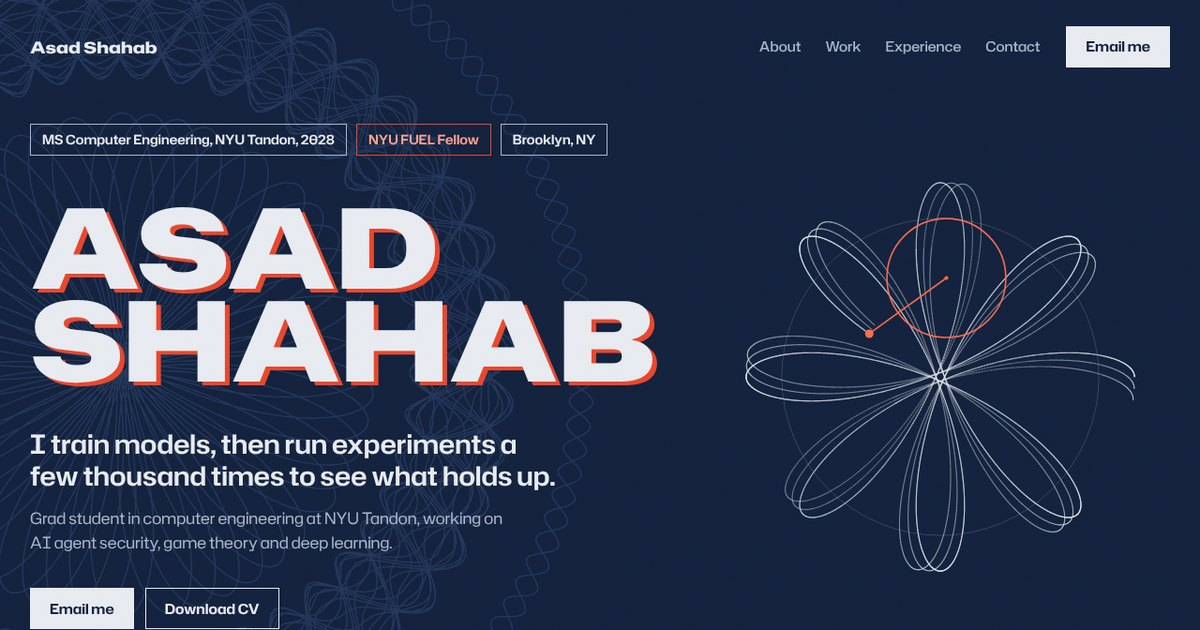
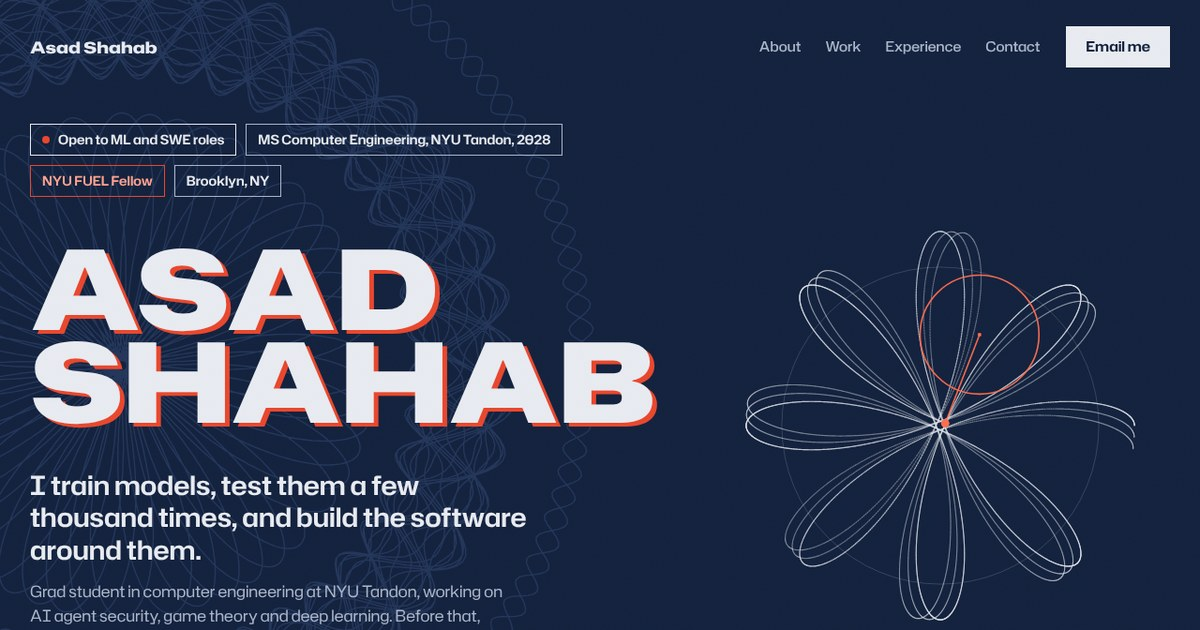
Adjusted content

Changed region(s): [[0.0, 0.181, 0.555, 1.0], [0.6167, 0.2714, 0.9558, 0.9952], [0.925, 0.6635, 0.9558, 0.6937]]

diff --git a/index.html b/index.html
@@ -3,12 +3,12 @@
 <head>
 <meta charset="utf-8">
 <meta name="viewport" content="width=device-width, initial-scale=1">
-<title>Asad Shahab | AI agents, game theory and deep learning</title>
-<meta name="description" content="Asad Shahab is a computer engineering grad student at NYU Tandon working on AI agent security, game theory and deep learning.">
+<title>Asad Shahab | Machine learning and software engineering</title>
+<meta name="description" content="Asad Shahab is a computer engineering grad student at NYU Tandon. He works on machine learning, mostly AI agent security, game theory and deep learning, and builds the software around it. Open to ML and software engineering roles.">
 <meta name="theme-color" content="#13213C">
 <meta property="og:type" content="website">
 <meta property="og:title" content="Asad Shahab">
-<meta property="og:description" content="Grad student at NYU Tandon working on AI agent security, game theory and deep learning.">
+<meta property="og:description" content="Machine learning and software engineering. Grad student at NYU Tandon, open to ML and SWE roles.">
 <meta property="og:url" content="https://asad-exo.github.io/">
 <meta property="og:image" content="https://asad-exo.github.io/assets/og.jpg">
 <meta name="twitter:card" content="summary_large_image">
@@ -80,13 +80,15 @@ a{color:inherit}
 .status{display:flex;flex-wrap:wrap;gap:10px;padding:0;list-style:none}
 .status li{display:inline-flex;align-items:center;min-height:34px;padding:0 12px;border:1.5px solid var(--fgd2);font-size:14px;font-weight:600}
 .status .fellow{border-color:var(--acc);color:var(--accd)}
+.status .open{gap:9px;border-color:var(--fgd);color:var(--fgd)}
+.status .open::before{content:"";width:8px;height:8px;border-radius:50%;background:var(--acc)}
 .name{position:relative;margin:48px 0 0;font-stretch:125%;font-weight:880;font-size:clamp(54px,9.2vw,136px);line-height:.84;letter-spacing:-.005em;text-transform:uppercase}
 .name span span{display:block}
 .nm-red{position:absolute;left:0;top:0;color:var(--acc);transform:translate(5px,4px)}
 .nm-ink{position:relative;display:block;color:var(--fgd)}
 @keyframes register{0%{opacity:0;transform:translate(26px,16px)}30%{opacity:1}100%{opacity:1;transform:translate(5px,4px)}}
 @keyframes inkin{0%{opacity:0;filter:blur(10px)}100%{opacity:1;filter:blur(0)}}
-.vt .lead{margin-top:44px;max-width:20em;font-size:clamp(22px,2.2vw,31px);line-height:1.22;font-weight:600}
+.vt .lead{margin-top:44px;max-width:20em;text-wrap:pretty;font-size:clamp(22px,2.2vw,31px);line-height:1.22;font-weight:600}
 .vt .sub{margin-top:14px;max-width:30em;color:var(--fgd2)}
 .cta{display:flex;flex-wrap:wrap;gap:12px;margin-top:36px}
 .js .hdraw{stroke-dasharray:1;stroke-dashoffset:1}
@@ -104,9 +106,10 @@ a{color:inherit}
 
 /* engraving machine */
 .hero-r{position:relative;z-index:1;display:flex;justify-content:center}
-.eng{position:relative;width:min(100%,520px);aspect-ratio:1}
+.eng{position:relative;display:block;width:min(100%,520px);aspect-ratio:1;margin:0;padding:0;border:0;background:none;color:inherit;font:inherit;cursor:pointer;touch-action:manipulation;-webkit-tap-highlight-color:transparent;transition:transform .25s cubic-bezier(.2,.8,.2,1)}
+.eng:active{transform:scale(.985)}
+.vt .eng:focus-visible{border-radius:50%;outline-offset:0}
 .eng canvas{position:absolute;left:0;top:0;width:100%;height:100%;display:block}
-#eng-pen{cursor:crosshair;touch-action:pan-y}
 
 /* sections */
 .sec{position:relative;z-index:1;padding-top:120px;padding-bottom:120px}
@@ -250,6 +253,7 @@ a{color:inherit}
 .c-ros{position:absolute;width:900px;height:900px;right:-280px;top:-80px;pointer-events:none}
 .c-in{position:relative}
 .c-h{font-stretch:125%;font-weight:880;font-size:clamp(56px,9vw,132px);line-height:.88;letter-spacing:-.015em}
+.vt .c-note{margin-top:28px;max-width:34em;font-size:18px;color:var(--fg2)}
 .mail{display:inline-block;margin-top:40px;font-stretch:125%;font-weight:780;font-size:clamp(24px,4.2vw,60px);line-height:1.05;text-decoration:none;overflow-wrap:anywhere;border-bottom:3px solid var(--accg);padding-bottom:6px}
 .mail:hover{color:var(--accl)}
 .c-links{display:flex;flex-wrap:wrap;gap:12px;margin-top:40px}
@@ -322,6 +326,7 @@ a{color:inherit}
       </svg>
       <div class="hero-l">
         <ul class="status">
+          <li class="open">Open to ML and SWE roles</li>
           <li>MS Computer Engineering, NYU Tandon, 2028</li>
           <li class="fellow">NYU FUEL Fellow</li>
           <li>Brooklyn, NY</li>
@@ -330,18 +335,18 @@ a{color:inherit}
           <span class="nm-red" aria-hidden="true"><span>Asad</span><span>Shahab</span></span>
           <span class="nm-ink" aria-hidden="true"><span>Asad</span><span>Shahab</span></span>
         </h1>
-        <p class="lead">I train models, then run experiments a few thousand times to see what holds up.</p>
-        <p class="sub">Grad student in computer engineering at NYU Tandon, working on AI agent security, game theory and deep learning.</p>
+        <p class="lead">I train models, test them a few thousand times, and build the software around them.</p>
+        <p class="sub">Grad student in computer engineering at NYU Tandon, working on AI agent security, game theory and deep learning. Before that, two years shipping automation software for enterprise clients.</p>
         <div class="cta">
           <a class="btn" href="mailto:asad.shahab275@gmail.com">Email me</a>
           <a class="btn btn-o" href="assets/Asad-Shahab-CV.pdf" download>Download CV</a>
         </div>
       </div>
       <div class="hero-r">
-        <div class="eng" aria-hidden="true">
-          <canvas id="eng-cv"></canvas>
-          <canvas id="eng-pen"></canvas>
-        </div>
+        <button class="eng" id="eng-btn" type="button" aria-label="Draw a new spirograph pattern" title="Draw a new pattern">
+          <canvas id="eng-cv" aria-hidden="true"></canvas>
+          <canvas id="eng-pen" aria-hidden="true"></canvas>
+        </button>
       </div>
     </section>
   </div>
@@ -351,13 +356,13 @@ a{color:inherit}
     <div class="wrap sec">
       <div class="sec-head">
         <h2 class="h2" id="about-h">About</h2>
-        <p class="bio">I'm a grad student at NYU Tandon. I did my undergrad in computer science at GIKI, then spent two years at Systems Limited building automations for clients like Hilton and British American Tobacco. Most of my work falls where machine learning meets game theory. Right now that means AI agents: how they get hijacked through prompt injection, and how to catch them when it happens.</p>
+        <p class="bio">I'm a grad student at NYU Tandon. I did my undergrad in computer science at GIKI, then spent two years as a consultant at Systems Limited, shipping automations for clients like Hilton and British American Tobacco. These days most of my work is machine learning, often where it meets game theory. Right now that means AI agents: how they get hijacked through prompt injection, and how to catch them when it happens. I'm just as happy building the backend, app or pipeline around a model as training it.</p>
       </div>
       <div class="specs">
         <div class="spec"><svg class="glyph" viewBox="0 0 300 300" aria-hidden="true"><path data-geo="g1"></path></svg><div><h3>AI agent security</h3><p>Prompt injection, decoys and monitoring for LLM agents.</p></div></div>
         <div class="spec"><svg class="glyph" viewBox="0 0 300 300" aria-hidden="true"><path data-geo="g2"></path></svg><div><h3>Game theory</h3><p>Security games, equilibria, and simulations that pit strategies against each other.</p></div></div>
         <div class="spec"><svg class="glyph" viewBox="0 0 300 300" aria-hidden="true"><path data-geo="g3"></path></svg><div><h3>Deep learning</h3><p>Diffusion models, fine-tuned language models, and audio and image generation.</p></div></div>
-        <div class="spec"><svg class="glyph" viewBox="0 0 300 300" aria-hidden="true"><path data-geo="g4"></path></svg><div><h3>Data</h3><p>Digging into messy real-world data to see what it says.</p></div></div>
+        <div class="spec"><svg class="glyph" viewBox="0 0 300 300" aria-hidden="true"><path data-geo="g4"></path></svg><div><h3>Software engineering</h3><p>Backends, apps and automation, built with Python, FastAPI, Flutter, Docker and AWS.</p></div></div>
       </div>
     </div>
   </section>
@@ -561,6 +566,7 @@ a{color:inherit}
     <div class="wrap sec">
       <div class="c-in">
         <h2 class="c-h" id="contact-h">Write to me.</h2>
+        <p class="c-note">I'm looking for machine learning and software engineering roles. If you're hiring, or just want to talk about agents, I'd like to hear from you.</p>
         <a class="mail" href="mailto:asad.shahab275@gmail.com">asad.shahab275@gmail.com</a>
         <div class="c-links">
           <a class="btn" href="https://www.linkedin.com/in/asadshahab" target="_blank" rel="noopener">LinkedIn</a>
@@ -643,7 +649,7 @@ a{color:inherit}
   Array.prototype.forEach.call(document.querySelectorAll('[data-geo]'), function (el) {
     el.setAttribute('d', geo[el.getAttribute('data-geo')]);
   });
-  var unit = 'ASAD SHAHAB   AGENT SECURITY   GAME THEORY   DEEP LEARNING   NYU TANDON   ';
+  var unit = 'ASAD SHAHAB   MACHINE LEARNING   AGENT SECURITY   GAME THEORY   SOFTWARE ENGINEERING   NYU TANDON   ';
   var micro = new Array(8).join(unit);
   Array.prototype.forEach.call(document.querySelectorAll('[data-text="micro"]'), function (el) { el.textContent = micro; });
 
@@ -684,17 +690,21 @@ a{color:inherit}
   /* ---------- engraving machine ---------- */
   var eng = document.getElementById('eng-cv');
   var pen = document.getElementById('eng-pen');
-  var presets = [
-    { r: 0.375, d: 0.6, turns: 3, secs: 10 },
-    { r: 0.3, d: 0.62, turns: 3, secs: 10 },
-    { r: 4 / 11, d: 0.5, turns: 4, secs: 12 },
-    { r: 2 / 7, d: 0.5, turns: 2, secs: 8 },
-    { r: 5 / 12, d: 0.66, turns: 5, secs: 13 },
-    { r: 5 / 11, d: 0.72, turns: 5, secs: 13 }
-  ];
+  var first = { r: 0.375, d: 0.6, turns: 3, secs: 10, rot: 0 };
   var S = 0, dpr = 1, lineCol = 'rgba(231,234,240,.55)', penCol = '#FF6A4D';
-  var pi = 0, tt = 0, phase = 'draw', phaseT = 0, dm = 1, rm = 0, nudge = null, raf = 0, running = false, visible = true;
+  var cur = first, tt = 0, phase = 'draw', phaseT = 0, fadeFor = 1.3, raf = 0, running = false, visible = true;
 
+  function gcd(a, b) { return b ? gcd(b, a % b) : a; }
+  /* random gears: a fixed ring of radius 1 and a rolling gear of a/b. The pattern closes after a turns. */
+  function randomPattern(prev) {
+    for (var i = 0; i < 80; i++) {
+      var b = 5 + Math.floor(Math.random() * 9), a = 2 + Math.floor(Math.random() * 5), r = a / b;
+      if (gcd(a, b) !== 1 || r < 0.18 || r > 0.47) continue;
+      if (prev && Math.abs(r - prev.r) < 1e-6) continue;
+      return { r: r, d: 0.45 + Math.random() * 0.35, turns: a, secs: Math.min(14, 6 + 1.6 * a), rot: Math.random() * Math.PI * 2 };
+    }
+    return first;
+  }
   function sizeCanvases() {
     var rect = eng.getBoundingClientRect();
     var ratio = Math.min(2, window.devicePixelRatio || 1);
@@ -707,8 +717,8 @@ a{color:inherit}
     lineCol = (cs.getPropertyValue('--engl') || '').trim() || lineCol;
     penCol = (cs.getPropertyValue('--engp') || '').trim() || penCol;
   }
-  function pt(p, t, rot, m) {
-    var r = p.r, d = p.d * m, k = (1 - r) / r;
+  function pt(p, t, rot) {
+    var r = p.r, d = p.d, k = (1 - r) / r;
     var x = (1 - r) * Math.cos(t) + d * Math.cos(k * t);
     var y = (1 - r) * Math.sin(t) - d * Math.sin(k * t);
     var c = Math.cos(rot), s = Math.sin(rot);
@@ -716,14 +726,15 @@ a{color:inherit}
   }
   function scaleFor(p) { return (S * 0.46) / ((1 - p.r) + p.d * 1.18); }
   function drawWhole() {
-    var p = presets[0], g = eng.getContext('2d'), C = S / 2, sc = scaleFor(p), total = p.turns * Math.PI * 2;
+    var p = cur, g = eng.getContext('2d'), C = S / 2, sc = scaleFor(p), total = p.turns * Math.PI * 2;
+    g.clearRect(0, 0, S, S);
     g.lineWidth = 1.2 * dpr;
     g.strokeStyle = lineCol;
     for (var c = 0; c < 3; c++) {
       g.globalAlpha = c === 0 ? 1 : 0.45;
       g.beginPath();
       for (var i = 0; i <= 2400; i++) {
-        var q = pt(p, (i / 2400) * total, c * 0.06, 1);
+        var q = pt(p, (i / 2400) * total, p.rot + c * 0.06);
         if (i === 0) g.moveTo(C + q[0] * sc, C + q[1] * sc); else g.lineTo(C + q[0] * sc, C + q[1] * sc);
       }
       g.stroke();
@@ -731,10 +742,7 @@ a{color:inherit}
     g.globalAlpha = 1;
   }
   function step(dt) {
-    var g = eng.getContext('2d'), h = pen.getContext('2d'), C = S / 2, p = presets[pi], sc = scaleFor(p);
-    var nx = nudge ? nudge.x : 0.5, ny = nudge ? nudge.y : 0.5;
-    dm += ((1 + 0.32 * (nx - 0.5)) - dm) * 0.06;
-    rm += (((ny - 0.5) * 0.6) - rm) * 0.06;
+    var g = eng.getContext('2d'), h = pen.getContext('2d'), C = S / 2, p = cur, sc = scaleFor(p), rm = p.rot;
     h.clearRect(0, 0, S, S);
     if (phase === 'draw') {
       var total = p.turns * Math.PI * 2, steps = 8, dT = ((total / p.secs) * dt) / steps;
@@ -744,7 +752,7 @@ a{color:inherit}
       for (var s = 0; s < steps; s++) {
         var t0 = tt, t1 = Math.min(total, tt + dT);
         for (var c = 0; c < 3; c++) {
-          var rot = c * 0.06 + rm, a = pt(p, t0, rot, dm), b = pt(p, t1, rot, dm);
+          var rot = c * 0.06 + rm, a = pt(p, t0, rot), b = pt(p, t1, rot);
           g.globalAlpha = c === 0 ? 1 : 0.45;
           g.beginPath();
           g.moveTo(C + a[0] * sc, C + a[1] * sc);
@@ -758,7 +766,7 @@ a{color:inherit}
       var cr = Math.cos(rm), sr = Math.sin(rm);
       var ccx = (1 - p.r) * Math.cos(tt), ccy = (1 - p.r) * Math.sin(tt);
       var rx = C + (ccx * cr - ccy * sr) * sc, ry = C + (ccx * sr + ccy * cr) * sc;
-      var q = pt(p, tt, rm, dm);
+      var q = pt(p, tt, rm);
       h.lineWidth = dpr;
       h.globalAlpha = 0.3;
       h.strokeStyle = lineCol;
@@ -774,15 +782,15 @@ a{color:inherit}
       h.beginPath(); h.arc(rx, ry, 2 * dpr, 0, Math.PI * 2); h.fill();
     } else if (phase === 'hold') {
       phaseT += dt;
-      if (phaseT > 2.4) { phase = 'fade'; phaseT = 0; }
+      if (phaseT > 2.4) { phase = 'fade'; phaseT = 0; fadeFor = 1.3; }
     } else {
       phaseT += dt;
       g.save();
       g.globalCompositeOperation = 'destination-out';
-      g.globalAlpha = 0.09;
+      g.globalAlpha = fadeFor < 1 ? 0.3 : 0.09;
       g.fillRect(0, 0, S, S);
       g.restore();
-      if (phaseT > 1.3) { g.clearRect(0, 0, S, S); pi = (pi + 1) % presets.length; tt = 0; phase = 'draw'; }
+      if (phaseT > fadeFor) { g.clearRect(0, 0, S, S); cur = randomPattern(cur); tt = 0; phaseT = 0; phase = 'draw'; }
     }
   }
   var last = 0;
@@ -804,16 +812,20 @@ a{color:inherit}
     if (!eng || !pen) return;
     sizeCanvases();
     readColors();
-    pi = 0; tt = 0; phase = 'draw'; phaseT = 0; dm = 1; rm = 0;
+    cur = first; tt = 0; phase = 'draw'; phaseT = 0;
     if (reduce) { drawWhole(); return; }
     play();
   }
   if (eng && pen) {
-    pen.addEventListener('pointermove', function (e) {
-      var b = pen.getBoundingClientRect();
-      nudge = { x: (e.clientX - b.left) / b.width, y: (e.clientY - b.top) / b.height };
+    /* click or tap: clear quickly and start a new pattern from random gears */
+    var btn = document.getElementById('eng-btn');
+    if (btn) btn.addEventListener('click', function () {
+      if (!S) return;
+      if (reduce) { cur = randomPattern(cur); drawWhole(); return; }
+      if (phase === 'fade' && fadeFor < 1) return;
+      phase = 'fade'; phaseT = 0; fadeFor = 0.35;
+      play();
     });
-    pen.addEventListener('pointerleave', function () { nudge = null; });
     var resizeT = 0;
     window.addEventListener('resize', function () {
       clearTimeout(resizeT);

diff --git a/README.md b/README.md
@@ -2,7 +2,7 @@
 
 My personal site: **https://asad-exo.github.io**
 
-I'm Asad Shahab, a grad student in computer engineering at NYU Tandon. The site covers what I work on (AI agent security, game theory and deep learning), my main projects, my experience and how to reach me.
+I'm Asad Shahab, a grad student in computer engineering at NYU Tandon. I work mostly on machine learning (AI agent security, game theory and deep learning) and I'm open to ML and software engineering roles. The site covers what I work on, my main projects, my experience and how to reach me.
 
 ## The idea
 
@@ -13,8 +13,8 @@ That means fine guilloché line patterns, serial numbers, rubber stamps for resu
 ## What's on the page
 
 - **An intro** that counts up to 100, then slides away to reveal the page.
-- **A hero** with my name printed slightly out of register in red, as if from a second printing plate. Beside it, a spirograph draws a new pattern every few seconds, with the turning gears in view. Moving your cursor over it nudges the pen.
-- **About**, with a line pattern of its own for each of the four things I work on.
+- **A hero** with my name printed slightly out of register in red, as if from a second printing plate. Beside it, a spirograph draws a pattern with its turning gears in view. Click or tap it and it clears and starts over with a new, randomly picked pair of gears.
+- **About**, with a line pattern of its own for each of the four things I work on: AI agent security, game theory, deep learning and software engineering.
 - **Selected work**: Dye Packs for AI, Sequence, Kestrel and Soundstage. Each comes with a small animation of what the project does, plus its key results stamped underneath.
 - **Other projects**: Finish the Lyric, MNIST Denoising, Live Style Transfer and Prim's vs. Kruskal's, each on a small card with its own demo.
 - **Record**: my experience and education.
@@ -25,13 +25,13 @@ That means fine guilloché line patterns, serial numbers, rubber stamps for resu
 It's a single static page with no framework and no build step: plain HTML, CSS and a little JavaScript.
 
 - **The line patterns are math, not images.** Every rosette and wavy band is a hypotrochoid, the curve a spirograph draws. The page computes them in JavaScript when it loads and draws them as SVG paths, so they stay sharp at any size.
-- **The hero spirograph** runs on a canvas. It simulates a small circle rolling inside a larger one, with a pen fixed to the small circle. The curve is drawn a little at a time, and the gears are drawn on a second canvas on top. Six patterns take turns, and the drawing pauses whenever the hero is off screen.
+- **The hero spirograph** runs on a canvas. It simulates a small circle rolling inside a larger one, with a pen fixed to the small circle. The curve is drawn a little at a time, and the gears are drawn on a second canvas on top. It always opens on the same pattern. After that, each new one picks a random gear ratio in lowest terms, so every curve closes into a clean figure. The drawing pauses whenever the hero is off screen.
 - **The project demos are CSS animations.** These are the decoy monitor replaying a real hijack from my experiments, chips completing a sequence on a game board, a knight moving through a game, and a waveform split between narrator and character voices.
 - **The MNIST demo** steps through real denoising frames from my [MNIST Denoising](https://github.com/asad-exo/MNIST-Denoising) project. They're tinted to match the page with CSS blend modes.
 - **Colors are CSS variables.** Each scheme is one class, which made it easy to try eight palettes before settling on Prussian.
 - **The perforated edges** are a repeating radial gradient: a row of dark circles cut into the top and bottom of each light section.
 - **Project cards are dealt in** like playing cards as you scroll to them. The intro only plays once per visit.
-- **It respects reduced motion.** If your system asks for less motion, the animations stop and the spirograph shows one finished pattern.
+- **It respects reduced motion.** If your system asks for less motion, the animations stop and the spirograph shows one finished pattern, and clicking it swaps in another.
 
 ## Credits
 
